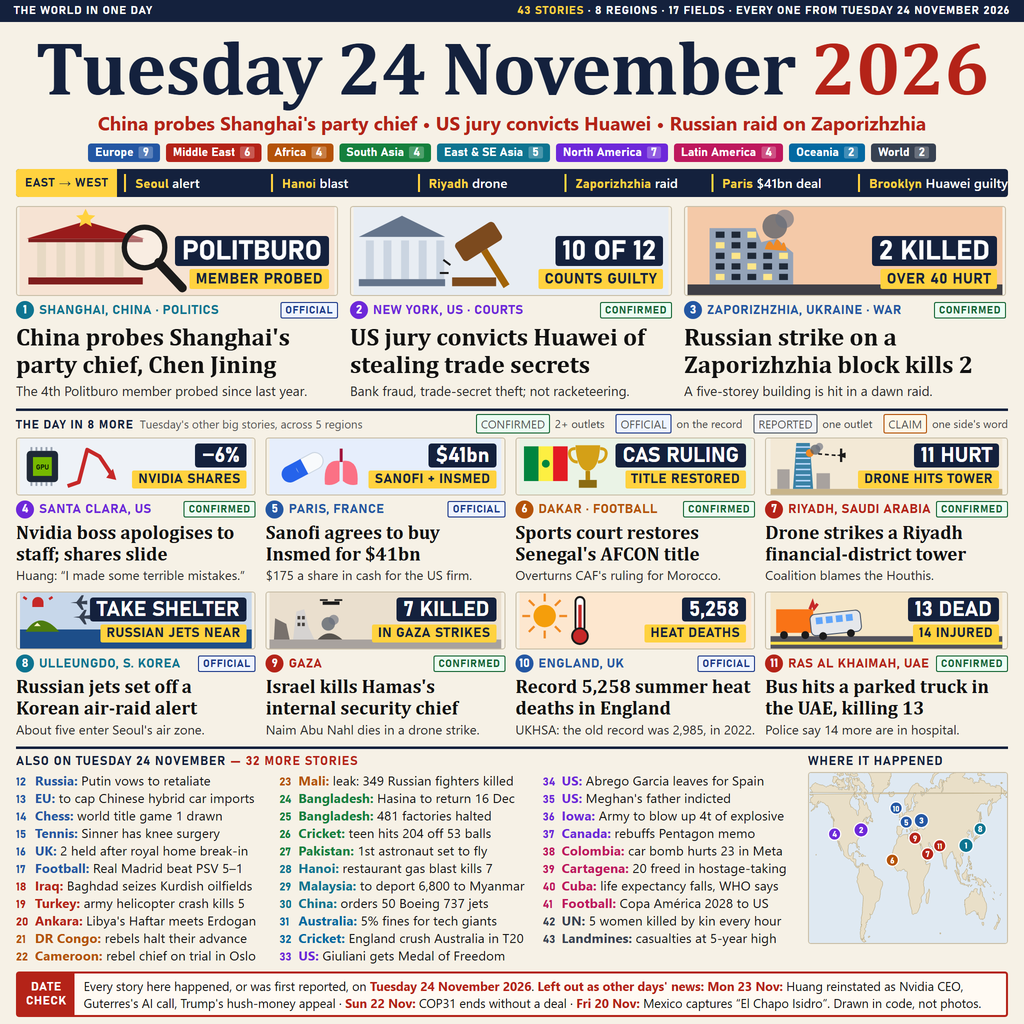
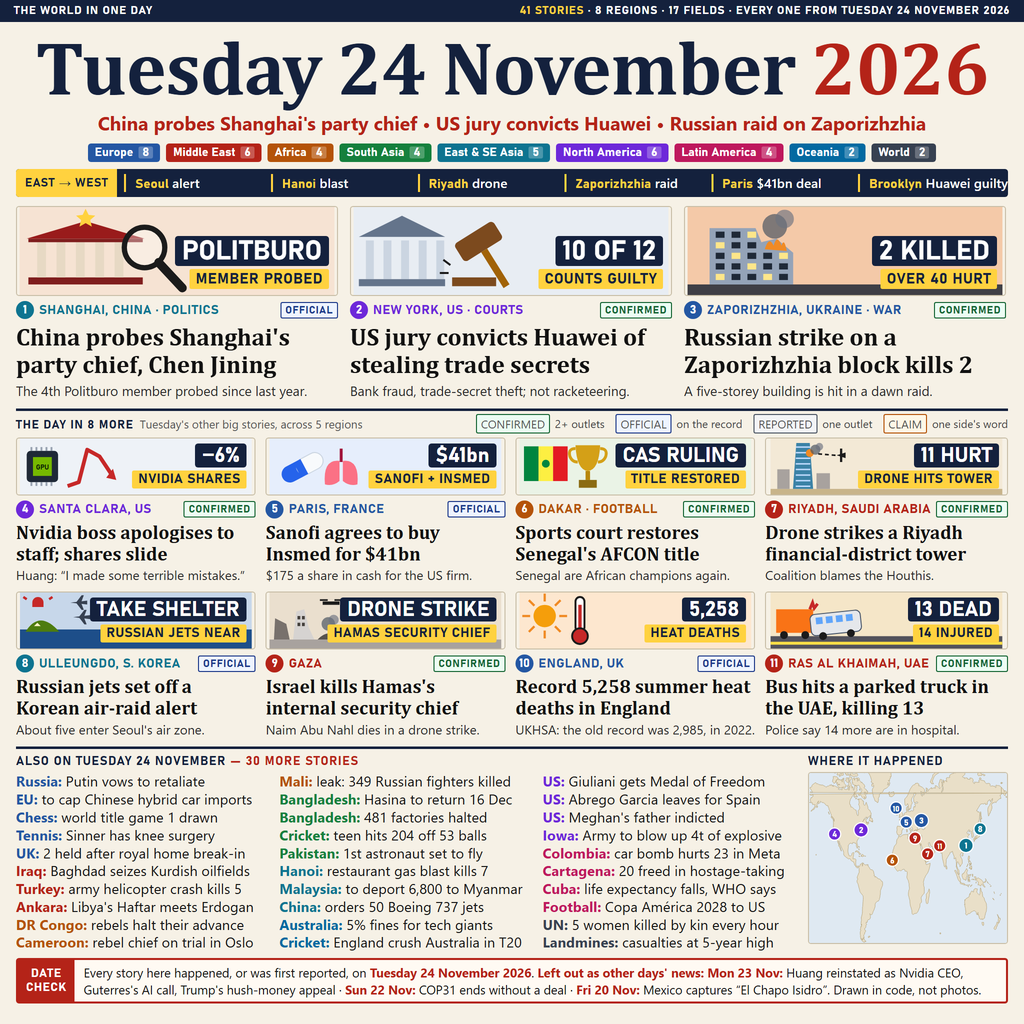
v8: lining-figure date with red year, larger labels, clearer cards, 41 stories

diff --git a/tools/build.py b/tools/build.py
@@ -23,9 +23,9 @@ SERIF = 'Cambria,"Times New Roman",serif'
 TAG_CLASS = {"CONFIRMED": "t-conf", "OFFICIAL": "t-off", "REPORTED": "t-rep", "CLAIM": "t-claim"}
 
 # layout knobs (a variant can override them through the VARIANT environment variable, as JSON)
-K = dict(lead_pic=90, card_pic=58, cards=8, card_cols=4, head_lead=24.5, head_card=19, brief_font=13.2,
-         briefs=32, brief_cols=3, dek_lead=13.4, dek_card=13, sub_size=19,
-         date_size=76, map=1, map_w=200, map_h=172)
+K = dict(lead_pic=90, card_pic=58, cards=8, card_cols=4, head_lead=24.5, head_card=19, brief_font=14.2,
+         briefs=30, brief_cols=3, dek_lead=13.4, dek_card=13, sub_size=19,
+         date_size=76, map=1, map_w=200, map_h=172, brief_num=0)
 K.update(json.loads(os.environ.get("VARIANT", "{}")))
 
 # What this variant shows: the first K['cards'] cards are drawn, the rest drop into the short list;
@@ -168,7 +168,8 @@ def brief_html(n, b):
     reg, place, text, t, _src = b  # numbered in page order, after the leads and cards
     col = REGIONS[reg][1]
     mark = ' <span class="tag t-claim">CLAIM</span>' if t == "CLAIM" else ""
-    return (f'<li><span class="bn" style="color:{col}">{n}</span><b style="color:{col}">{esc(place)}:</b> '
+    num = f'<span class="bn" style="color:{col}">{n}</span>' if K["brief_num"] else ""
+    return (f'<li>{num}<b style="color:{col}">{esc(place)}:</b> '
             f'{esc(text)}{mark}</li>')
 
 

diff --git a/tools/stories.py b/tools/stories.py
@@ -52,7 +52,7 @@ CARDS = [
     dict(region="af", place="DAKAR · FOOTBALL", field="SPORT", tag="CONFIRMED",
          lon=-17.45, lat=14.69, pic="trophy", big="CAS RULING", small="TITLE RESTORED",
          head="Sports court restores Senegal's AFCON title",
-         dek="Overturns CAF's ruling for Morocco.",
+         dek="Senegal are African champions again.",
          brief=("Senegal", "CAS restores its AFCON title"), src="AP · The Guardian"),
     dict(region="me", place="RIYADH, SAUDI ARABIA", field="ATTACK", tag="CONFIRMED",
          lon=46.68, lat=24.71, pic="tower", big="11 HURT", small="DRONE HITS TOWER",
@@ -65,7 +65,7 @@ CARDS = [
          dek="About five enter Seoul's air zone.",
          brief=("S. Korea", "Russian jets trigger air-raid alert"), src="Joint Chiefs · Al Jazeera"),
     dict(region="me", place="GAZA", field="WAR", tag="CONFIRMED",
-         lon=34.45, lat=31.5, pic="gaza", big="7 KILLED", small="IN GAZA STRIKES",
+         lon=34.45, lat=31.5, pic="gaza", big="DRONE STRIKE", small="HAMAS SECURITY CHIEF",
          head="Israel kills Hamas's internal security chief",
          dek="Naim Abu Nahl dies in a drone strike.",
          brief=("Gaza", "Israeli strike kills Hamas security chief"), src="Al Jazeera · The Guardian"),

diff --git a/README.md b/README.md
@@ -12,7 +12,7 @@ bounty "Sum up 24 November's world news in one image".
 Three drawn leads: China puts Shanghai's party chief Chen Jining under investigation; a US jury convicts Huawei of
 stealing trade secrets; and a Russian strike on a Zaporizhzhia apartment block kills two. Eight drawn cards follow,
 each with its key number in large type (Nvidia, Sanofi's $41bn deal, Senegal's AFCON title, Riyadh, a Korean
-air-raid alert, Gaza, England's record heat deaths, a UAE bus crash), then 32 more stories in a short list, a map,
+air-raid alert, Gaza, England's record heat deaths, a UAE bus crash), then 30 more stories in a short list, a map,
 region counts and a date check that names what was left out because it happened on another day.
 
 Each story carries a tag: CONFIRMED (two or more outlets), OFFICIAL (on the record), REPORTED (one outlet) or
